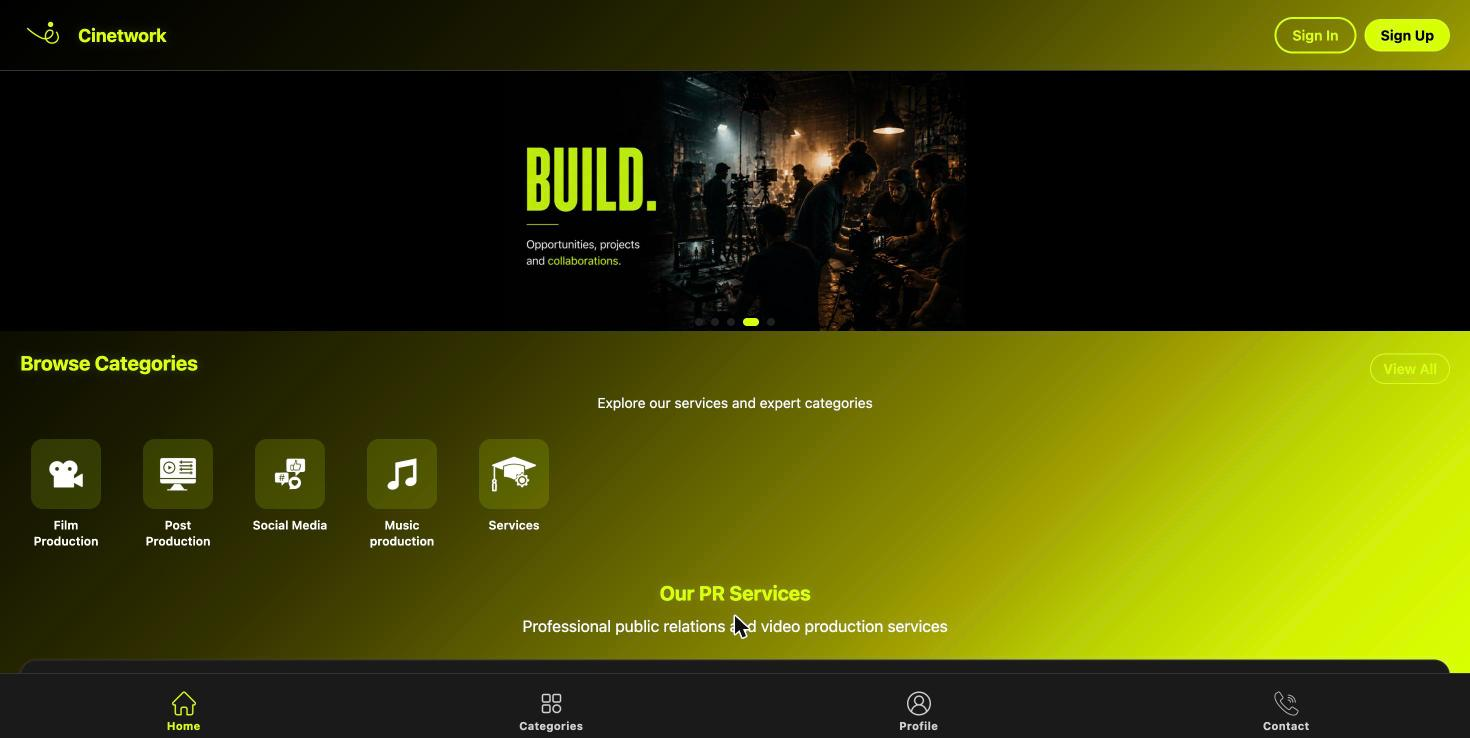
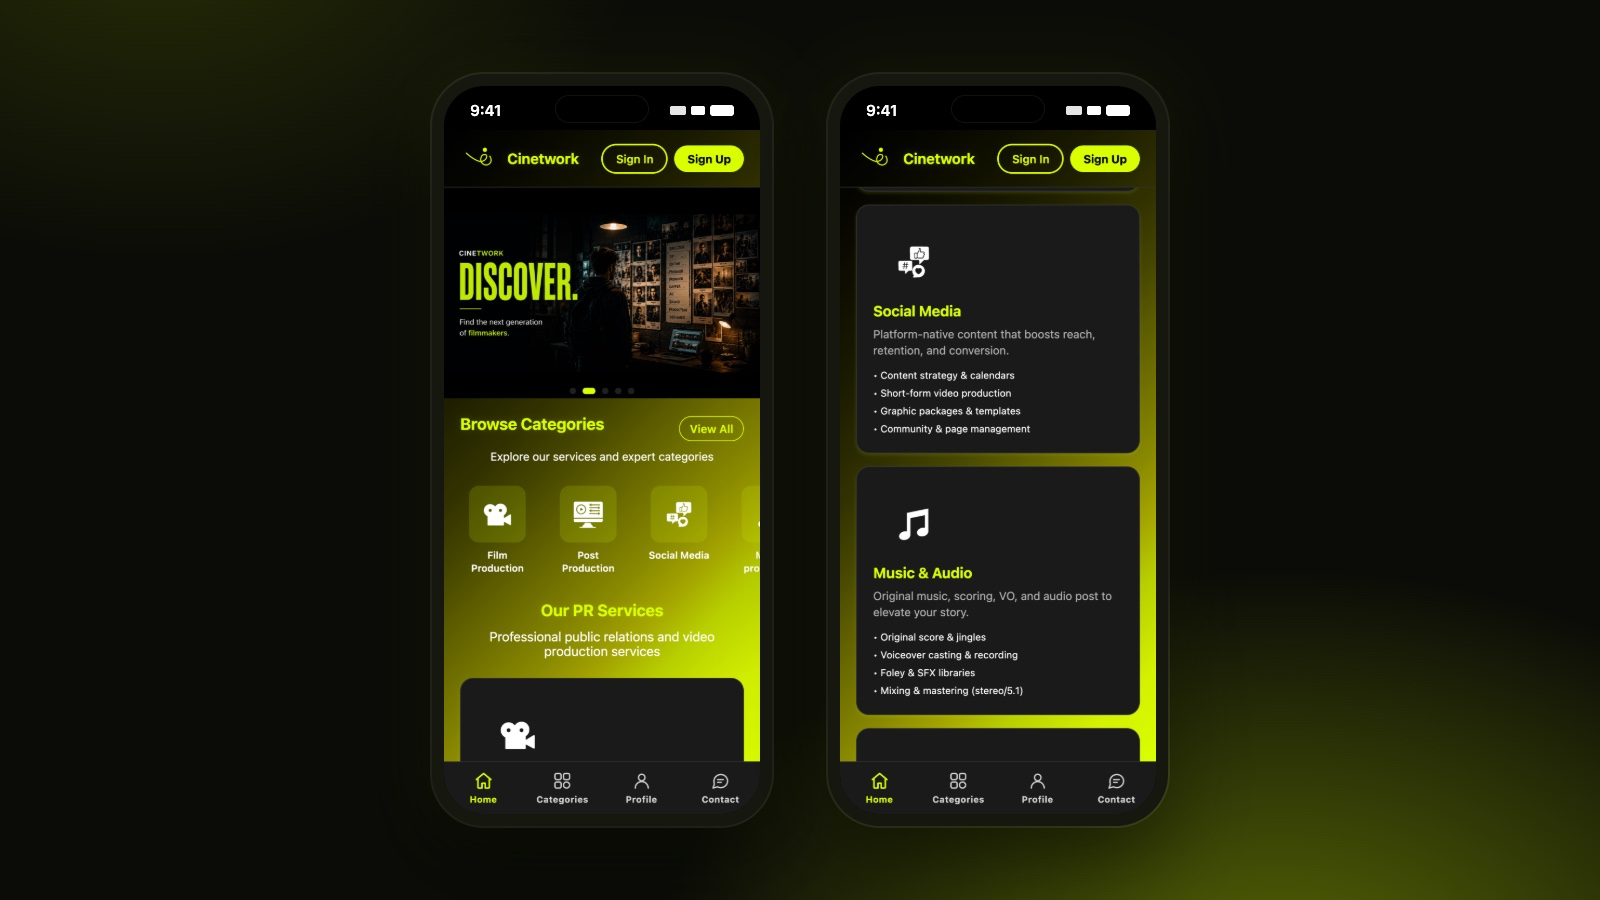
changes

diff --git a/src/data/projects.ts b/src/data/projects.ts
@@ -90,7 +90,7 @@ export const projects: Project[] = [
     problem:
       "boxMind, Allied Engineering Group's AI arm, builds privacy-first AI for banks, government, telecoms, insurers and healthcare. Each product needed a secure backend for production.",
     result:
-      "For almost three years, I built the backend behind many of its AI products, turning the AI team's work into secure APIs and live-streamed answers.",
+      "For almost three years, the founder built the backend behind many of its AI products, turning the AI team's work into secure APIs and live-streamed answers.",
     tech: ['Python', 'FastAPI', 'Flask', 'Socket.IO', 'MySQL', 'Milvus', 'LLMs & RAG', 'Docker', 'AWS'],
     images: [
       '/projects/boxmind-ai-backend/1.svg',
@@ -99,15 +99,15 @@ export const projects: Project[] = [
     ],
     overview: `boxMind is the AI arm of Allied Engineering Group (AEG). It designs and deploys enterprise AI for organizations where data sovereignty, regulatory compliance and reliability are non-negotiable: banks, government entities, telecoms, insurers and healthcare providers across the Middle East and Africa. Its products combine large language models, computer vision and structured-data AI, with role-based access and full audit trails, and are often deployed on the client's own servers.
 
-I joined in the company's early days as its first hire, and for almost three years I was the backend developer working between the AI team and the frontend team. That meant taking care of the database, the APIs, security, testing and deployment.
+The founder joined in the company's early days as its first hire, and for almost three years was the backend developer working between the AI team and the frontend team. That meant taking care of the database, the APIs, security, testing and deployment.
 
 It wasn't one project but many: AI chatbots and RAG assistants that answer questions over an organization's own documents, AI models for predictions and inference, an AI learning platform for schools (boxMind Academy, which has its own page here), and solutions for banks and hospitals.
 
-My focus was the backend, but working next to the AI team gave me hands-on experience with AI: I connected their work to the products through LLM calls, retrieval-augmented generation (RAG) over Milvus vector databases, background AI workers and data pipelines, and I worked on prompts and AI agents along the way.
+The focus was the backend, but working next to the AI team brought hands-on experience with AI: connecting their work to the products through LLM calls, retrieval-augmented generation (RAG) over Milvus vector databases, background AI workers and data pipelines, and working on prompts and AI agents along the way.
 
-To make the AI feel instant, I streamed the LLM's answers to the frontend in real time over Socket.IO, word by word as they were generated, with controls like stopping a generation mid-answer.
+To make the AI feel instant, the LLM's answers were streamed to the frontend in real time over Socket.IO, word by word as they were generated, with controls like stopping a generation mid-answer.
 
-The role went beyond code: I was part of the discussions and decisions on which features to build and how to grow the product.`,
+The role went beyond code: it included the discussions and decisions on which features to build and how to grow the product.`,
     built: [
       'Architected the MySQL database from scratch: schema, relationships, data models and query tuning',
       'Built the APIs in FastAPI and Flask, with clear API, business-logic and data layers, and the folder structure and coding principles behind them',
@@ -116,7 +116,7 @@ The role went beyond code: I was part of the discussions and decisions on which 
       "Exposed the AI team's logic to the frontend through secure endpoints, with JWT authentication and middleware guards",
       'Designed strict data isolation: every user\'s data is private to them, with their own vector database for RAG, so documents and answers never mix between users',
       'Designed roles and permissions (RBAC), with private rooms open only to their members',
-      "Integrated the AI team's LLM, RAG and inference features into the backend, with retrieval from Milvus vector databases that I managed",
+      "Integrated the AI team's LLM, RAG and inference features into the backend, with retrieval from self-managed Milvus vector databases",
       'Helped write and refine the prompts behind the AI features',
       'Set up background workers and data pipelines for long-running AI jobs',
       'Took care of QA: tested the APIs, tracked down bugs and fixed them before release',
@@ -168,7 +168,7 @@ The role went beyond code: I was part of the discussions and decisions on which 
   },
   {
     slug: 'cinetwork',
-    title: 'The CI Network',
+    title: 'Cinetwork',
     category: 'founder-led',
     context: 'Founder-led · Client Project',
     summary: 'Engineered a film-industry networking platform across iOS, Android, web, backend, and cloud.',
@@ -183,20 +183,20 @@ The role went beyond code: I was part of the discussions and decisions on which 
     result:
       'Engineered the app, API, database and cloud setup, and shipped it live on Google Play, the App Store and the web.',
     tech: ['React Native', 'Flask', 'MySQL', 'AWS', 'Nginx', 'AdMob'],
+    // Mobile screenshots of the live app (thecinetwork.com, phone-size), shown in phone frames:
+    // it's a mobile app first, so it shouldn't look like a website.
     images: [
       '/projects/cinetwork/1.jpg',
       '/projects/cinetwork/2.jpg',
       '/projects/cinetwork/3.jpg',
-      '/projects/cinetwork/4.jpg',
-      '/projects/cinetwork/5.jpg',
     ],
-    overview: `The CI Network is a professional networking platform for filmmakers, audiovisual professionals, students and creatives, owned and run by the client. In one place, its members can build a professional profile, connect with the industry, find jobs and projects, and discover films, talent and services. Its motto: Connect. Create. Work.
+    overview: `Cinetwork is a professional networking platform for filmmakers, audiovisual professionals, students and creatives, owned and run by the client. In one place, its members can build a professional profile, connect with the industry, find jobs and projects, and discover films, talent and services. Its motto: Connect. Create. Work.
 
-My part was the engineering, working closely with the client from the database to the app stores. The app started mobile-first; when the client asked for a web version too, I adapted the same React Native codebase to run on the web. It's now live on Android, iOS and at thecinetwork.com.
+The founder's part was the engineering, working closely with the client from the database to the app stores. The app started mobile-first; when the client asked for a web version too, the same React Native codebase was adapted to run on the web. It's now live on Android, iOS and at thecinetwork.com.
 
-The product, its vision and its business belong to the client. On the engineering side, I implemented the in-app subscriptions and AdMob ads behind its business model.
+The product, its vision and its business belong to the client. On the engineering side, the founder implemented the in-app subscriptions and AdMob ads behind its business model.
 
-Before its official launch, The CI Network got an exclusive sneak peek at the Byblos International Film Festival.`,
+Before its official launch, Cinetwork got an exclusive sneak peek at the Byblos International Film Festival.`,
     built: [
       'Built the app in React Native, from one codebase for Android, iOS and the web',
       'Built the backend API in Flask (Python) with a MySQL relational database',
@@ -219,7 +219,7 @@ Before its official launch, The CI Network got an exclusive sneak peek at the By
       {
         challenge: 'Turning a mobile-first React Native app into a production web app.',
         solution:
-          'Adapted the build for the web and set up EC2, Nginx SPA routing, DNS and SSL. Then I fixed the mixed-content, CORS and API-routing issues between the frontend, the backend and CloudFront.',
+          'Adapted the build for the web and set up EC2, Nginx SPA routing, DNS and SSL. Then fixed the mixed-content, CORS and API-routing issues between the frontend, the backend and CloudFront.',
       },
       {
         challenge: 'Making money from the app without hurting the experience, on two stores with different payment rules.',
@@ -237,9 +237,9 @@ Before its official launch, The CI Network got an exclusive sneak peek at the By
       'Cross-platform code saves a lot of time, but each platform still has its own rules for permissions, signing, payments and release.',
       'Engineering for a client teaches you to care about everything: the product, the code, the release and the relationship.',
     ],
-    note: 'The CI Network is a client project: the product and its brand belong to the client. This page describes my engineering contributions.',
+    note: "Cinetwork is a client project: the product and its brand belong to the client. This page describes the founder's engineering contributions.",
     liveUrl: 'https://www.thecinetwork.com',
-    liveLabel: 'Visit The CI Network',
+    liveLabel: 'Visit Cinetwork',
   },
   {
     slug: 'boxmind-academy',
@@ -255,7 +255,7 @@ Before its official launch, The CI Network got an exclusive sneak peek at the By
     problem:
       'Schools wanted to teach Generative AI and robotics, and use AI to improve learning. They needed a platform to run school-wide courses, guide each student with AI, and handle contracts and pricing.',
     result:
-      'An AI-guided learning platform (courses, levels, chapters) used by schools under contract. I built its entire backend and designed its database.',
+      'An AI-guided learning platform (courses, levels, chapters) used by schools under contract. Its entire backend and database were designed and built by the founder.',
     tech: ['Python', 'MySQL', 'LLMs', 'Socket.IO', 'Docker', 'AWS'],
     images: [
       '/projects/boxmind-academy/1.jpg',
@@ -268,9 +268,9 @@ Before its official launch, The CI Network got an exclusive sneak peek at the By
 
 The courses are built by boxMind's AI engineers together with experienced educators, and the program is accredited by the USA Accreditation Council and Approval Commission (USAAC). Students progress through levels made for their age, from Adventurer for beginners, to Explorer, to Mastermind for advanced learners, and the curriculum grows with them from the first grades up to 12th grade.
 
-I was the backend developer and database architect of the platform. I designed the database from scratch and built the whole backend behind it: schools and their contracts, pricing, courses, levels, chapters and lessons, students and teachers, progress tracking, and the AI features that create content and guide learning.
+The founder was the backend developer and database architect of the platform, designing the database from scratch and building the whole backend behind it: schools and their contracts, pricing, courses, levels, chapters and lessons, students and teachers, progress tracking, and the AI features that create content and guide learning.
 
-It reuses what I built across boxMind's AI products: secure APIs, strict data privacy for every student, and AI answers streamed live to the screen.`,
+It reuses what was built across boxMind's AI products: secure APIs, strict data privacy for every student, and AI answers streamed live to the screen.`,
     built: [
       'Designed the database from scratch: schools, contracts and pricing, courses, levels, chapters and lessons, students, teachers and their progress',
       'Built the whole backend: the APIs, the business logic and the data layer behind every screen of the platform',

diff --git a/src/features/projects/ProjectPage.tsx b/src/features/projects/ProjectPage.tsx
@@ -137,7 +137,7 @@ function ProjectPage() {
 
       {project.built && (
         <section className="project-page__block">
-          <h2>What I built</h2>
+          <h2>What was built</h2>
           <ul className="check-list">
             {project.built.map((point) => (
               <li key={point}>{point}</li>
@@ -177,7 +177,7 @@ function ProjectPage() {
 
       {project.learnings && (
         <section className="project-page__block">
-          <h2>What I learned</h2>
+          <h2>Lessons learned</h2>
           <ul className="check-list">
             {project.learnings.map((learning) => (
               <li key={learning}>{learning}</li>

diff --git a/scripts/prerender.ts b/scripts/prerender.ts
@@ -148,7 +148,7 @@ export function projectBody(project: Project) {
       `${project.summary ? el('p', project.summary) : ''}</header>` +
       section('The problem', el('p', project.problem)) +
       section('Overview', paragraphs(project.overview)) +
-      section('What I built', list((project.built ?? []).map(esc))) +
+      section('What was built', list((project.built ?? []).map(esc))) +
       section('Features', list((project.features ?? []).map(esc))) +
       section('Result', project.result ? el('p', project.result) : '') +
       section('Tech', el('p', project.tech.join(', '))) +

diff --git a/src/data/seo.ts b/src/data/seo.ts
@@ -41,7 +41,7 @@ export const DEFAULT_IMAGE = { path: '/og-image.png', width: 1440, height: 740 }
 const TITLE_MAX = 60
 const DESCRIPTION_MAX = 155
 
-// A page's title in the browser tab and in Google: "The CI Network | Axihex". A long title keeps
+// A page's title in the browser tab and in Google: "Cinetwork | Axihex". A long title keeps
 // its own words and drops "| Axihex", so Google doesn't cut it off in the middle.
 export function pageTitle(title?: string) {
   if (!title) return SITE_TITLE

diff --git a/src/data/experience.ts b/src/data/experience.ts
@@ -24,7 +24,7 @@ export const experience: Job[] = [
         period: '2025 – present',
         points: [
           'I take client ideas from zero to live: API, database, web, mobile and cloud',
-          'Latest: The CI Network (client project), live on Google Play, the App Store and the web',
+          'Latest: Cinetwork (client project), live on Google Play, the App Store and the web',
         ],
       },
     ],
